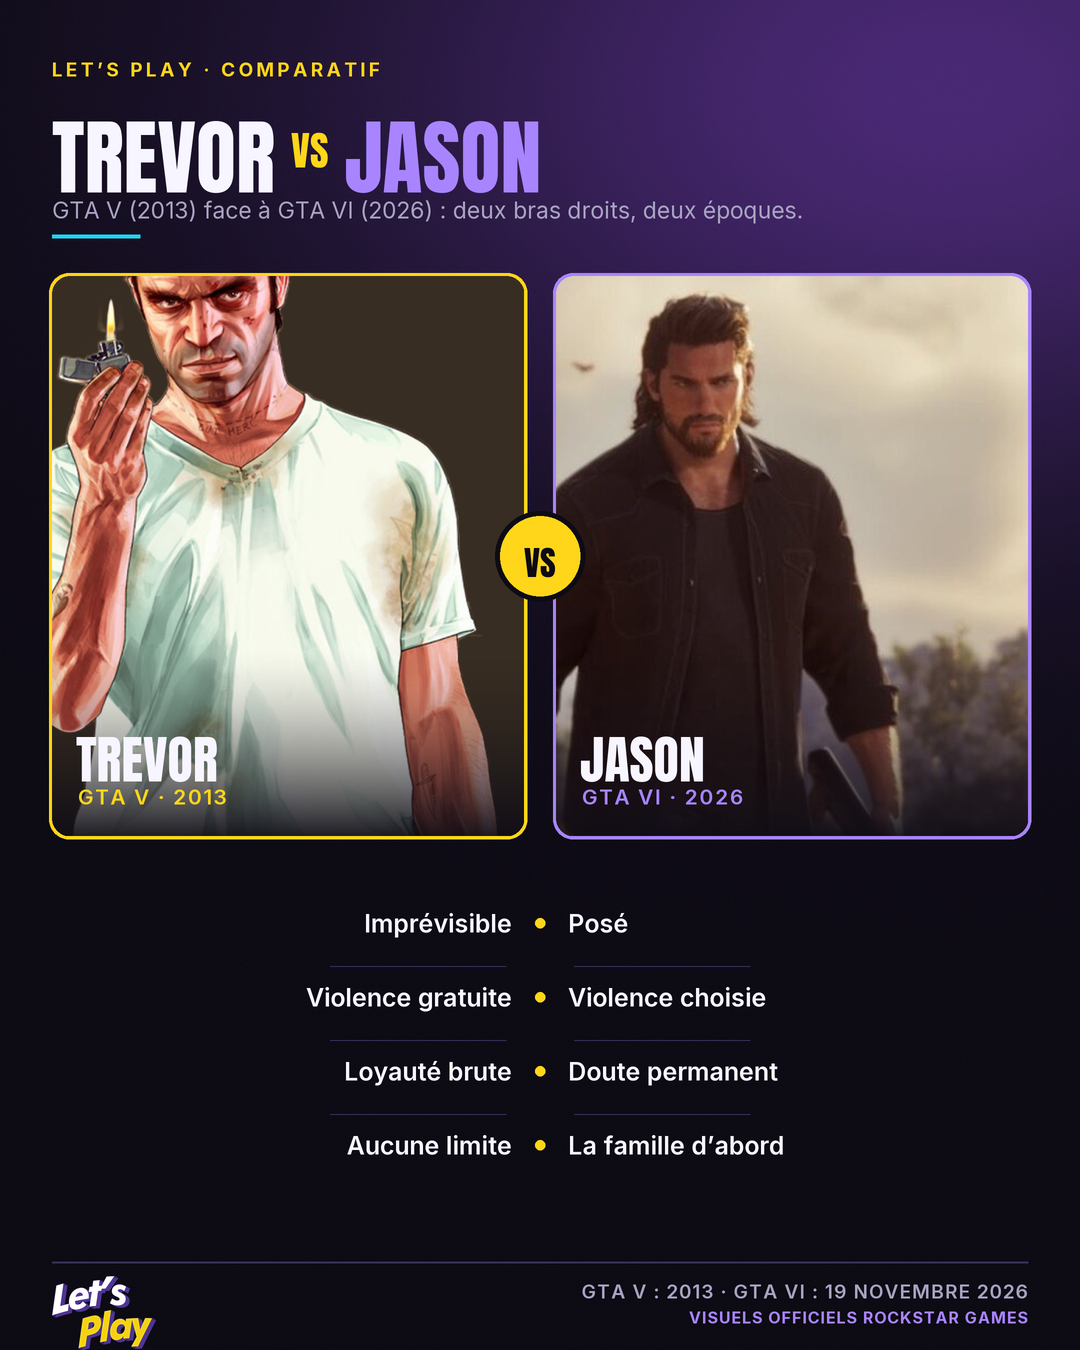
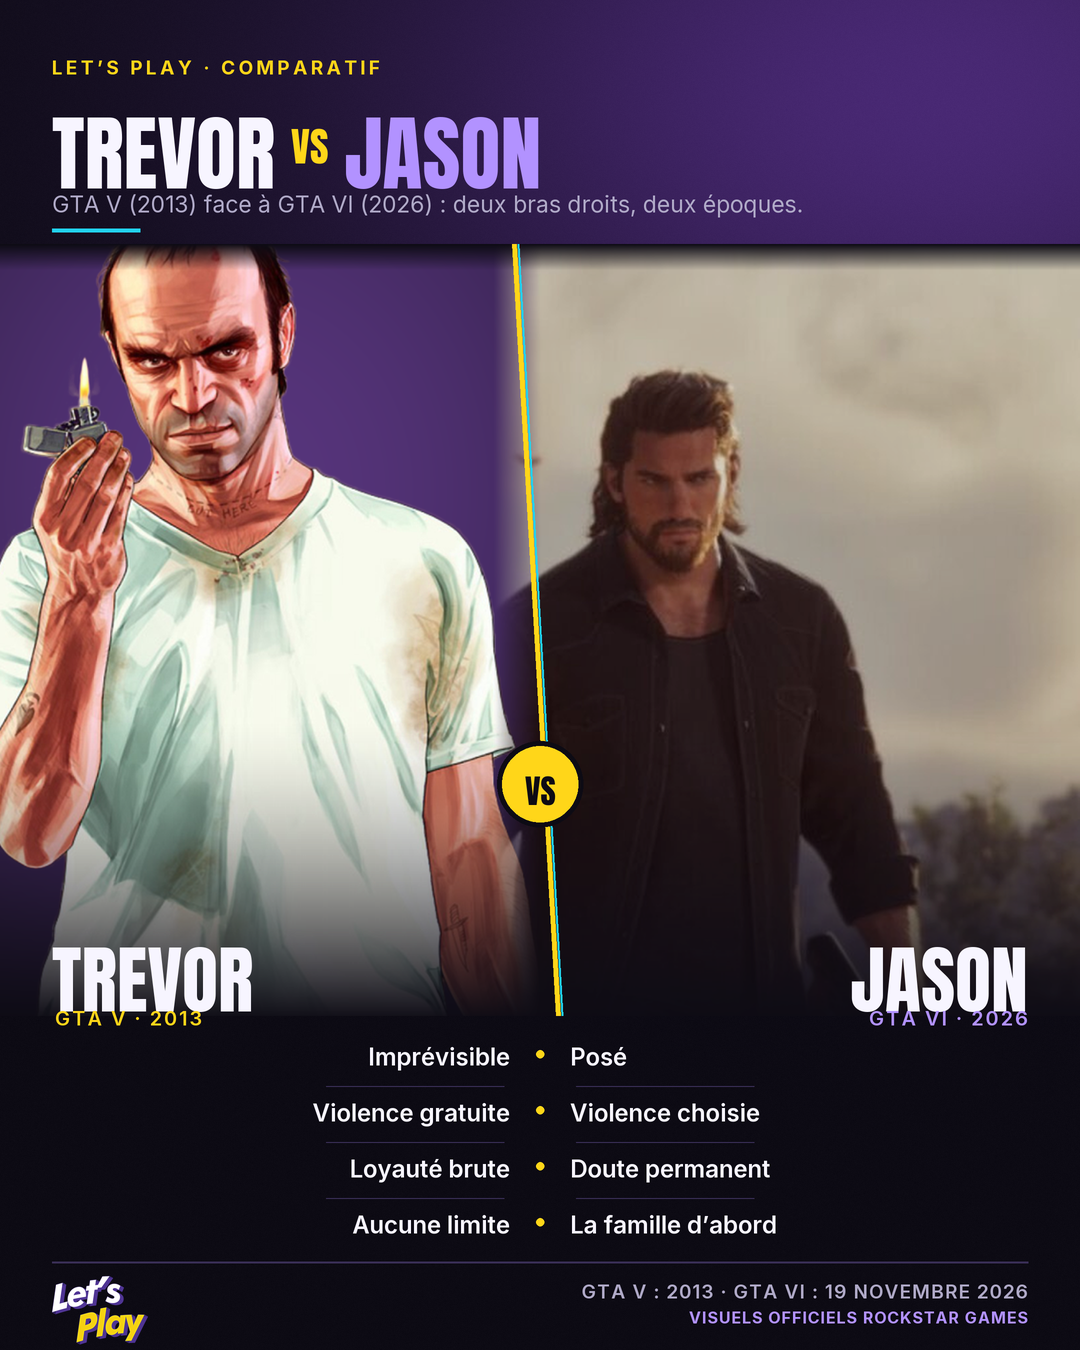
Visuel Instagram : portraits sans cadres
Les deux portraits n'ont plus de bordure ni de cartouche : ils occupent toute
la largeur de la bande haute, dos à dos, et se rejoignent sur une couture
diagonale jaune doublée de cyan. Les noms sont posés directement sur les
images, au-dessus de la bande de comparaison.

Jason reçoit un voile léger : la clé d'art GTA VI est très claire, ce voile
l'accorde à la moitié sombre de Trevor.

diff --git a/scripts/visuels/make_gta_trevor_jason_45.py b/scripts/visuels/make_gta_trevor_jason_45.py
@@ -3,8 +3,12 @@
 
 Deux bras droits, deux époques : Trevor Philips, l'imprévisible de *Grand Theft
 Auto V* (2013), face à Jason Duval, le vétéran plus posé de *Grand Theft Auto
-VI* (19 novembre 2026). Deux portraits pleine hauteur, puis quatre axes de
-comparaison en vis-à-vis.
+VI* (19 novembre 2026).
+
+Mise en page : **sans cadres**. Les deux portraits occupent toute la largeur du
+haut de la carte, dos à dos, séparés par une couture diagonale jaune / cyan ;
+les noms sont posés directement sur les images et les quatre axes de
+comparaison tiennent dans une bande sombre en bas.
 
 Sortie : PNG 1080 × 1350 px (4:5) et JPEG qualité 92 pour Instagram.
 
@@ -30,14 +34,14 @@ HERE = Path(__file__).resolve().parent
 ROOT = HERE.parents[1]
 ASSETS = ROOT / "instagram/assets"
 
-W, H, S = 1080, 1350, 2  # suréchantillonnage ×2 : lettrage et diagonales nets
+W, H, S = 1080, 1350, 2  # suréchantillonnage ×2 : lettrage et couture nets
 
 INK = (13, 11, 20)          # fond prune presque noir
 PAPER = (247, 245, 255)     # blanc cassé
-GREY = (169, 163, 194)      # légendes
+GREY = (176, 170, 200)      # légendes
 YELLOW = (255, 214, 25)     # accent maison
 CYAN = (34, 211, 238)
-VIOLET = (168, 132, 255)    # encre de Jason (lisible sur le fond prune)
+VIOLET = (178, 146, 255)    # encre de Jason (lisible sur le fond prune)
 RULE = (58, 47, 87)
 
 FONTS = {
@@ -48,17 +52,19 @@ FONTS = {
 }
 
 MARGIN = 52
-CARD_TOP, CARD_H = 276, 560
-CARD_W = (W - 2 * MARGIN - 32) // 2      # 470 px : deux cartes + gouttière
-GAP = 32
+SEAM = W / 2                 # couture entre les deux portraits
+FEATHER = 46                 # largeur du dégradé qui fond une image dans l'autre
+ART_TOP, ART_H = 244, 772    # bande des portraits (bas = 1016)
+ROWS_TOP = 1042
+ROW_H = 56
 
 TREVOR = {
     "name": "TREVOR",
     "game": "GTA V · 2013",
     "color": YELLOW,
     "points": ["Imprévisible", "Violence gratuite", "Loyauté brute", "Aucune limite"],
-    "focus": (0.50, 0.26),   # visage dans le rendu vertical
-    "zoom": 1.18,
+    "focus": (0.50, 0.26),
+    "zoom": 1.12,
 }
 
 JASON = {
@@ -66,7 +72,8 @@ JASON = {
     "game": "GTA VI · 2026",
     "color": VIOLET,
     "points": ["Posé", "Violence choisie", "Doute permanent", "La famille d’abord"],
-    "focus": (0.52, 0.22),
+    "focus": (0.52, 0.20),
+    "zoom": 1.0,
 }
 
 
@@ -81,9 +88,8 @@ def font(face, size):
 def text(im, x, y, s, size, color=PAPER, *, face="bold", tracking=0, align="left"):
     """Écrit `s` en coordonnées de maquette et renvoie sa largeur (maquette).
 
-    Le canevas est suréchantillonné (S = 2) : les positions comme les tailles
-    sont donc multipliées par S au tracé, sinon le texte sort deux fois trop
-    grand par rapport à la mise en page.
+    Le canevas est suréchantillonné (S = 2) : positions et tailles sont donc
+    multipliées par S au tracé, sinon le texte sort deux fois trop grand.
     """
     f = font(face, size)
     widths = [f.getlength(c) + px(tracking) for c in s]
@@ -107,81 +113,127 @@ def ground():
     ink = np.array(INK) + glow[..., None] * np.array([60, 30, 96])
     grain = np.random.default_rng(11).normal(0, 0.7, (H, W, 1))
     im = Image.fromarray(np.uint8(np.clip(ink + grain, 0, 255)), "RGB")
-    # Bandeau bas : la zone des lignes de comparaison reste plus sombre.
-    fade = Image.new("L", (W, H), 0)
-    ImageDraw.Draw(fade).rectangle([0, 880, W, H], fill=70)
-    fade = fade.filter(ImageFilter.GaussianBlur(px(40)))
-    im = Image.composite(Image.new("RGB", (W, H), INK), im, fade)
     return im.resize((px(W), px(H)), Image.Resampling.BICUBIC).convert("RGBA")
 
 
-def portrait_card(source, spec, box, *, alpha=False):
-    """Portrait plein cadre, fondu vers le bas : la légende se pose dessus."""
-    cw, ch = box
+def panel(source, spec, width, height, *, cutout=False):
+    """Portrait recadré à la largeur de la bande, sans bord ni cadre."""
     w, h = source.size
-    # `zoom` resserre le cadrage (Trevor est un plan large : on remonte sur le
-    # buste pour que les deux cartes parlent à la même échelle).
-    scale = max(cw / w, ch / h) * spec.get("zoom", 1.0)
-    art = source.resize((max(cw, round(w * scale)), max(ch, round(h * scale))), Image.Resampling.LANCZOS)
-    # Centrage sur le visage, sans déborder du cadre.
+    scale = max(width / w, height / h) * spec.get("zoom", 1.0)
+    art = source.resize((max(width, round(w * scale)), max(height, round(h * scale))),
+                        Image.Resampling.LANCZOS)
     fx, fy = spec["focus"]
-    left = min(max(0, round(fx * art.width - cw / 2)), art.width - cw)
-    top = min(max(0, round(fy * art.height - ch * 0.22)), art.height - ch)
-    art = art.crop((left, top, left + cw, top + ch))
-    if alpha:
-        # Rendu détouré : on le pose sur un aplat de la couleur du personnage.
-        plate = Image.new("RGBA", art.size, spec["color"] + (255,))
-        plate = Image.blend(plate, Image.new("RGBA", art.size, (24, 18, 36, 255)), 0.86)
-        plate.alpha_composite(art)
-        art = plate
-    art = art.convert("RGBA")
-    # Dégradé bas : lisibilité du nom posé sur l'image.
+    left = min(max(0, round(fx * art.width - width / 2)), art.width - width)
+    top = min(max(0, round(fy * art.height - height * 0.30)), art.height - height)
+    art = art.crop((left, top, left + width, top + height)).convert("RGBA")
+    if cutout:
+        # Rendu détouré : aplat sombre teinté de l'encre du personnage, l'image
+        # n'a plus de fond propre — pas de cadre, elle se fond dans la carte.
+        plate = np.zeros((art.height, art.width, 3), dtype=float)
+        gy, gx = np.ogrid[:art.height, :art.width]
+        glow = np.exp(-(((gx - art.width * 0.42) / (art.width * 0.9)) ** 2
+                        + ((gy - art.height * 0.32) / (art.height * 0.8)) ** 2))
+        plate += np.array(INK) + glow[..., None] * np.array([74, 42, 104])
+        back = Image.fromarray(np.uint8(np.clip(plate, 0, 255)), "RGB").convert("RGBA")
+        back.alpha_composite(art)
+        art = back
+    # Bas de la bande : fondu vers l'encre, pour poser les noms dessus.
     shade = Image.new("L", art.size, 0)
     sd = ImageDraw.Draw(shade)
-    fade_h = px(190)
+    fade_h = px(300)
     for i in range(fade_h):
         t = i / fade_h
-        sd.line([(0, art.height - fade_h + i), (art.width, art.height - fade_h + i)], fill=int(236 * t ** 1.5))
+        sd.line([(0, art.height - fade_h + i), (art.width, art.height - fade_h + i)], fill=int(250 * t ** 1.5))
     art.paste(Image.new("RGBA", art.size, INK + (255,)), (0, 0), shade)
     return art
 
 
+def seam_mask(width, height, *, left_side):
+    """Masque en dégradé : les deux portraits se croisent sans bord visible."""
+    mask = Image.new("L", (width, height), 0)
+    span = px(FEATHER)
+    draw = ImageDraw.Draw(mask)
+    for i in range(width):
+        if left_side:
+            # Opaque, puis extinction sur les derniers pixels de la couture.
+            v = 255 if i <= width - span else round(255 * (width - i) / span)
+        else:
+            # Transparent sur la couture, puis pleinement opaque.
+            v = 255 if i >= span else round(255 * i / span)
+        draw.line([(i, 0), (i, height)], fill=v)
+    return mask.filter(ImageFilter.GaussianBlur(px(1.5)))
+
+
+def art_band(im, trevor, jason):
+    """Les deux portraits dos à dos, pleine largeur, sans cadre."""
+    band_h = px(ART_H)
+    half = round(SEAM + FEATHER)
+
+    left = panel(trevor, TREVOR, px(half), band_h, cutout=True)
+    right = panel(jason, JASON, px(half), band_h)
+    # Jason : la clé d'art est très claire (poussière, ciel) ; un voile léger
+    # l'accorde au traitement sombre de la moitié gauche.
+    right = Image.alpha_composite(right, Image.new("RGBA", right.size, INK + (46,)))
+    layer = Image.new("RGBA", (px(W), band_h), (0, 0, 0, 0))
+    layer.paste(left, (0, 0), seam_mask(px(half), band_h, left_side=True))
+    layer.paste(right, (px(SEAM - FEATHER), 0), seam_mask(px(half), band_h, left_side=False))
+
+    # Haut de la bande : un fondu court évite l'arête nette sous le titre.
+    top_fade = Image.new("L", (px(W), band_h), 0)
+    tf = ImageDraw.Draw(top_fade)
+    for i in range(px(26)):
+        tf.line([(0, i), (px(W), i)], fill=round(255 * (1 - i / px(26))))
+    layer.paste(Image.new("RGBA", layer.size, INK + (255,)), (0, 0), top_fade)
+
+    # Couture diagonale : un trait jaune, doublé d'un filet cyan.
+    d = ImageDraw.Draw(layer)
+    d.line([(px(SEAM - 22), 0), (px(SEAM + 22), band_h)], fill=CYAN, width=px(2))
+    d.line([(px(SEAM - 26), 0), (px(SEAM + 18), band_h)], fill=YELLOW, width=px(5))
+    im.alpha_composite(layer, (0, px(ART_TOP)))
+
+
 def masthead(im):
-    text(im, MARGIN, 58, "LET’S PLAY · COMPARATIF", 19, YELLOW, tracking=3.4)
+    text(im, MARGIN, 56, "LET’S PLAY · COMPARATIF", 19, YELLOW, tracking=3.4)
     # « TREVOR vs JASON » sur une ligne : VS jaune intercalé, JASON en violet.
     size = 82
     x = MARGIN
-    x += text(im, x, 96, "TREVOR", size, PAPER, face="black") + 16
-    x += text(im, x, 120, "VS", 40, YELLOW, face="black") + 16
-    text(im, x, 96, "JASON", size, VIOLET, face="black")
-    text(im, MARGIN, 196, "GTA V (2013) face à GTA VI (2026) : deux bras droits, deux époques.",
+    x += text(im, x, 92, "TREVOR", size, PAPER, face="black") + 16
+    x += text(im, x, 116, "VS", 40, YELLOW, face="black") + 16
+    text(im, x, 92, "JASON", size, VIOLET, face="black")
+    text(im, MARGIN, 190, "GTA V (2013) face à GTA VI (2026) : deux bras droits, deux époques.",
          23, GREY, face="regular")
-    ImageDraw.Draw(im).line([(px(MARGIN), px(236)), (px(MARGIN + 88), px(236))], fill=CYAN, width=px(4))
+    ImageDraw.Draw(im).line([(px(MARGIN), px(230)), (px(MARGIN + 88), px(230))], fill=CYAN, width=px(4))
 
 
 def vs_badge(im, cx, cy):
-    r = 40
+    r = 38
     d = ImageDraw.Draw(im)
     d.ellipse([px(cx - r - 5), px(cy - r - 5), px(cx + r + 5), px(cy + r + 5)], fill=INK)
     d.ellipse([px(cx - r), px(cy - r), px(cx + r), px(cy + r)], fill=YELLOW)
-    text(im, cx, cy - 19, "VS", 34, INK, face="black", align="center")
+    text(im, cx, cy - 18, "VS", 33, INK, face="black", align="center")
 
 
-def comparison(im, specs, top):
-    """Quatre axes en vis-à-vis, filet fin tous les deux rangs."""
-    row = 74
+def name_plates(im):
+    """Noms posés à même l'image, bas de la bande de portraits."""
+    base = ART_TOP + ART_H - 92
+    text(im, MARGIN, base, TREVOR["name"], 74, PAPER, face="black")
+    text(im, MARGIN + 3, base + 82, TREVOR["game"], 20, YELLOW, tracking=1.8, face="semi")
+    text(im, W - MARGIN, base, JASON["name"], 74, PAPER, face="black", align="right")
+    text(im, W - MARGIN, base + 82, JASON["game"], 20, VIOLET, tracking=1.8, face="semi", align="right")
+
+
+def comparison(im, specs):
+    """Quatre axes en vis-à-vis ; traits fins entre les rangs, pastille au centre."""
     mid = W / 2
     for i, (left, right) in enumerate(zip(specs[0]["points"], specs[1]["points"])):
-        y = top + i * row
+        y = ROWS_TOP + i * ROW_H
         if i:
-            ImageDraw.Draw(im).line(
-                [(px(mid - 210), px(y - 16)), (px(mid - 34), px(y - 16))], fill=RULE, width=px(1))
-            ImageDraw.Draw(im).line(
-                [(px(mid + 34), px(y - 16)), (px(mid + 210), px(y - 16))], fill=RULE, width=px(1))
-        text(im, mid - 28, y, left, 25, PAPER, face="semi", align="right")
-        ImageDraw.Draw(im).rounded_rectangle(
-            [px(mid - 5), px(y + 10), px(mid + 5), px(y + 20)], radius=px(5), fill=specs[0]["color"])
-        text(im, mid + 28, y, right, 25, PAPER, face="semi")
+            d = ImageDraw.Draw(im)
+            d.line([(px(mid - 214), px(y - 12)), (px(mid - 36), px(y - 12))], fill=RULE, width=px(1))
+            d.line([(px(mid + 36), px(y - 12)), (px(mid + 214), px(y - 12))], fill=RULE, width=px(1))
+        text(im, mid - 30, y, left, 24, PAPER, face="semi", align="right")
+        ImageDraw.Draw(im).ellipse([px(mid - 4), px(y + 8), px(mid + 4), px(y + 16)], fill=TREVOR["color"])
+        text(im, mid + 30, y, right, 24, PAPER, face="semi")
 
 
 def footer(im):
@@ -189,7 +241,7 @@ def footer(im):
     ImageDraw.Draw(im).line([(px(MARGIN), px(y)), (px(W - MARGIN), px(y))], fill=RULE, width=px(2))
     logo = Image.open(ROOT / "public/lets-play-logo.png").convert("RGBA")
     logo = logo.crop(logo.getchannel("A").getbbox())
-    logo.thumbnail((px(104), px(76)), Image.Resampling.LANCZOS)
+    logo.thumbnail((px(96), px(70)), Image.Resampling.LANCZOS)
     im.alpha_composite(logo, (px(MARGIN), px(y + 14)))
     text(im, W - MARGIN, y + 18, "GTA V : 2013 · GTA VI : 19 NOVEMBRE 2026", 19, GREY,
          tracking=1.2, face="semi", align="right")
@@ -207,26 +259,10 @@ def main():
 
     im = ground()
     masthead(im)
-
-    cards = (
-        (TREVOR, trevor, MARGIN, True),
-        (JASON, jason, MARGIN + CARD_W + GAP, False),
-    )
-    for spec, source, x, alpha in cards:
-        card = portrait_card(source, spec, (px(CARD_W), px(CARD_H)), alpha=alpha)
-        ImageDraw.Draw(im).rounded_rectangle(
-            [px(x - 3), px(CARD_TOP - 3), px(x + CARD_W + 3), px(CARD_TOP + CARD_H + 3)],
-            radius=px(20), fill=spec["color"],
-        )
-        mask = Image.new("L", card.size, 0)
-        ImageDraw.Draw(mask).rounded_rectangle([0, 0, card.width, card.height], radius=px(18), fill=255)
-        im.paste(card, (px(x), px(CARD_TOP)), mask)
-        # Légende posée sur le bas du portrait.
-        text(im, x + 24, CARD_TOP + CARD_H - 116, spec["name"], 52, PAPER, face="black")
-        text(im, x + 26, CARD_TOP + CARD_H - 52, spec["game"], 21, spec["color"], tracking=1.6, face="semi")
-
-    vs_badge(im, W / 2, CARD_TOP + CARD_H / 2)
-    comparison(im, (TREVOR, JASON), 908)
+    art_band(im, trevor, jason)
+    vs_badge(im, SEAM, ART_TOP + ART_H - 232)
+    name_plates(im)
+    comparison(im, (TREVOR, JASON))
     footer(im)
 
     # Le canevas de travail est suréchantillonné ×2 : l'export repasse à
